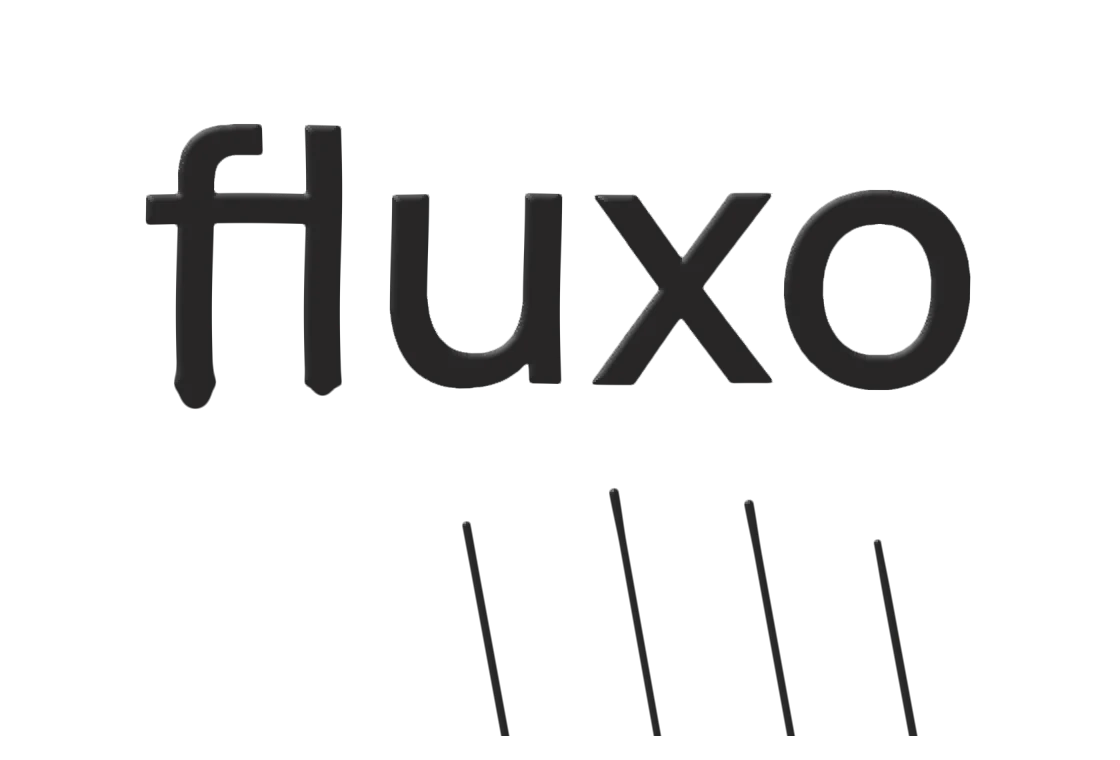
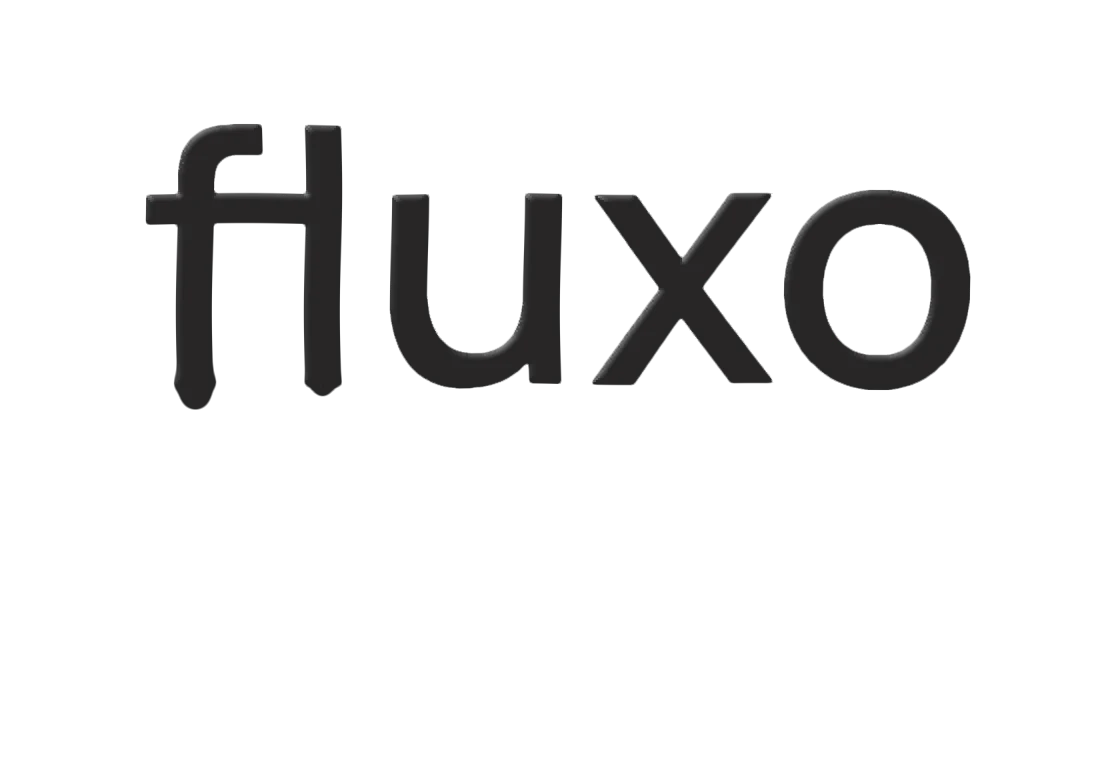
fix(drip-word): a queda nao estica uma linha ate o chao
A raiz do fio agora corre atras da gota depois que ela solta, e o quadro parado
do movimento reduzido nunca cai numa gota em queda.

diff --git a/registry/visant/ui/drip-word.tsx b/registry/visant/ui/drip-word.tsx
@@ -342,16 +342,19 @@ export function DripWord({ word = "fluxo", ink = "var(--foreground)", drips = 6,
       pes.forEach((pe, i) => {
         const semente = fracao(Math.sin((i + 1) * 12.9898) * 43758.5453);
         const periodo = 8 + semente * 7;
-        const fase = fracao(t / periodo + semente);
+        // Movimento reduzido: um quadro só, sempre com a gota ainda presa ao fio.
+        const ciclo = fracao(t / periodo + semente);
+        const fase = reduz ? Math.max(0.3, Math.min(ciclo, 0.62)) : ciclo;
         const alcance = 0.1 + semente * 0.24;
         const cresce = liso(0, 0.68, fase) * alcance;
         const solta = Math.max(0, fase - 0.68) / 0.32;
         const queda = solta * solta * 1.1;
-        const raiz = pe.y + solta * cresce;
         const ponta = pe.y + cresce + queda;
+        // Solta o fio depressa: a raiz corre atrás da gota, ou a queda esticaria uma linha até o chão.
+        const raiz = solta > 0 ? ponta - Math.max(cresce * (1 - liso(0, 0.22, solta)), 0.012) : pe.y;
         const x = pe.x * asp;
         fios[i * 4] = x;
-        fios[i * 4 + 1] = Math.min(raiz, ponta - 0.001);
+        fios[i * 4 + 1] = raiz;
         fios[i * 4 + 2] = x + inclina * 0.5 * (ponta - pe.y);
         fios[i * 4 + 3] = ponta;
         const nasce = liso(0, 0.1, fase);
